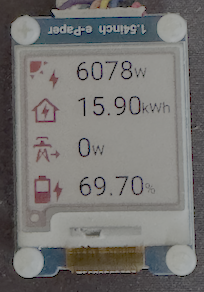
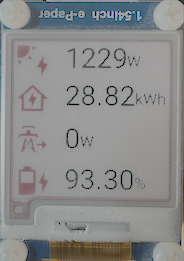
Improved README

diff --git a/README.md b/README.md
@@ -1,6 +1,6 @@
 # ESPHome [![Discord Chat](https://img.shields.io/discord/429907082951524364.svg)](https://discord.gg/KhAMKrd) [![GitHub release](https://img.shields.io/github/release/esphome/esphome.svg)](https://GitHub.com/esphome/esphome/releases/) [![CodSpeed](https://img.shields.io/endpoint?url=https://codspeed.io/badge.json)](https://codspeed.io/esphome/esphome)
 
-> **Note**: This is a fork of the official ESPHome repository. The original can be found at [esphome/esphome](https://github.com/esphome/esphome).
+> **Note**: This is a fork of the official ESPHome repository that adds support for the Waveshare 1.54in-b ePaper display. The original can be found at [esphome/esphome](https://github.com/esphome/esphome).
 
 <a href="https://esphome.io/">
   <picture>
@@ -15,7 +15,7 @@
 
 This repository includes an example configuration for a solar power monitoring display using an ESP8266 and a Waveshare 1.54" ePaper display.
 
-![Solar PV Display Example](solar-pv.png)
+![Solar PV Display Example](https://raw.githubusercontent.com/aattila/esphome/100c0fe73b020402b36336c3cf923f43913c0246/example/solar-pv.png)
 
 The example shows real-time solar power data fetched from Home Assistant, displayed on an ePaper screen with low power consumption.
 
